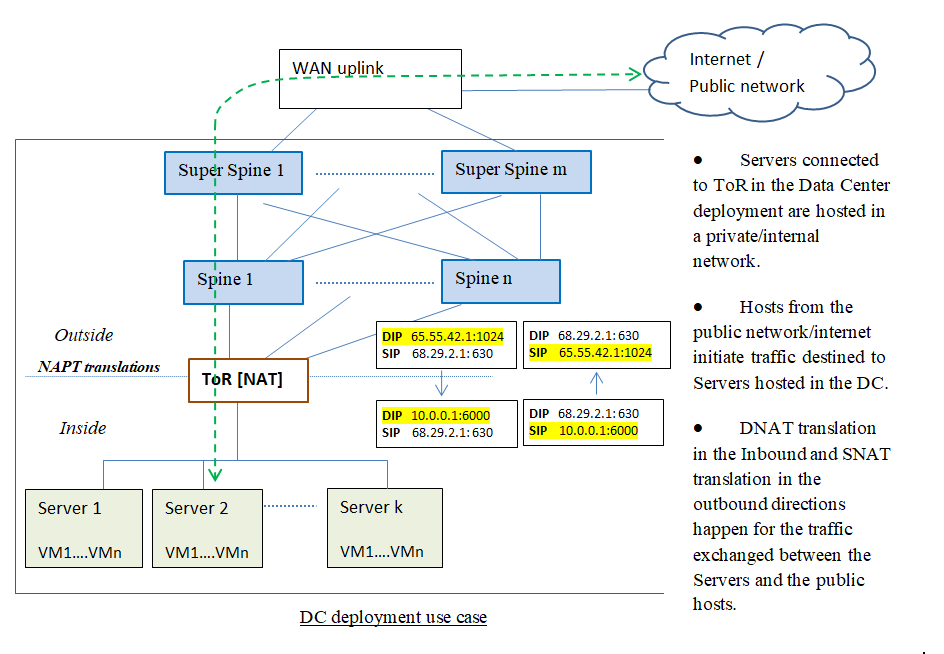
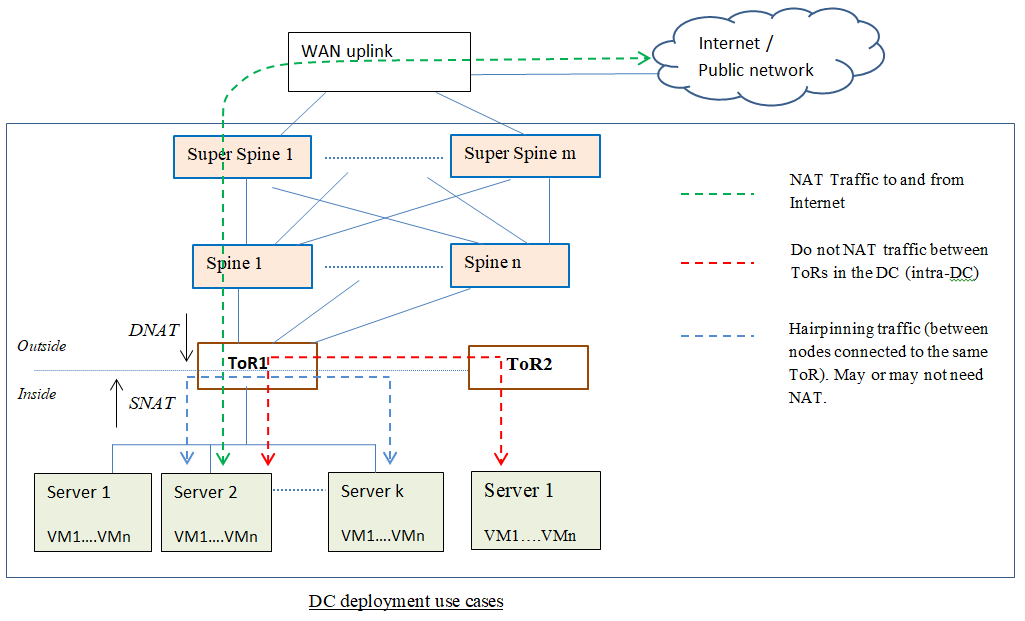
More text on DC deployment scenarios. Handling mismatch between the Linux and Hardware NAT models. Supporting Loopback IP as Public IP.

diff --git a/doc/nat/nat_design_spec.md b/doc/nat/nat_design_spec.md
@@ -176,7 +176,13 @@ Ability to support the scale of up to 40K Bi-directional NAT entries, but this i
 ## 2.1 Target Deployment Use Cases
 NAT feature is targeted for DC and Enterprise deployments.
 
-In DC deployments, the ToR switch can enable NAT feature to translate the traffic from/to the attached Servers running in the private network and the public domain.
+In DC deployments, we can have the following different use-cases:
+1. Traffic between the Server connected to the ToR and the Internet. ToR enabled for NAT does the DNAT for the south bound traffic from Internet to the Server and does the SNAT for the north bound traffic to the Internet.
+ 
+2. Intra-DC traffic between the nodes connected to different ToRs in the same DC. This is the case of internal communication with private IP addresses between the nodes in the DC that do not need to be NAT'ted at the ToRs, thereby saving the ASIC NAT table resources. In such scenarios, ACLs are used (see section 3.3 for more details) to avoid NAT actions on selected traffic flows.
+  
+3. Traffic between 2 Servers/hosts connected to the same ToR (also referred to as hairpinning traffic). Administrator may want to either do or not do the NAT on the hairpinning traffic. To avoid NAT in this case, ACLs can be used. Support for NAT on the hairpinning traffic is a future enhancement.
+
 ![DC deployment use case](images/nat_dc_deployment_usecase.png)
 
 In Enterprise deployments, the Customer Edge switch or other Customer premises equipment implements the NAT firewall functionality for translating the traffic between the internal enterprise hosts and the public domain.
@@ -211,7 +217,7 @@ Subsequently any new connections from the same internal IP + L4 port to new dest
 
 ### 2.2.4 NAT zones
 NAT zones refer to different network domains between which the NAT translation happens when the packet crosses between them. NAT zones are also referred to as NAT realms.
-NAT zones are created by configuring zone-id per L3 interface. The L3 interface referred to for NAT purposes can be an Ethernet, VLAN or PortChannel interface that are configured with IP address(es).
+NAT zones are created by configuring zone-id per L3 interface. The L3 interface referred to for NAT purposes can be an Ethernet, VLAN or PortChannel or Loopback interface that are configured with IP address(es).
 
 In this document, the interface that is towards the private networks (private realm) on the NAT router is referred to as an inside interface.
 And the interface that is towards the public network (public realm) on the NAT router is referred to as outside interface.
@@ -220,7 +226,7 @@ By default, L3 interface is in NAT zone 0 which we refer to as an inside interfa
 NAT/NAPT is performed when packets matching the configured NAT ACLs cross between different zones.
 The source zone of a packet is determined by the zone of the interface on which the packet came on. And the destination zone of the packet is determined by the zone of the L3 next-hop interface from the L3 route lookup of the destination.
 
-Currently only 2 zones are supported, which correspond to the inside interface and the outside interface.
+Currently only 2 zones are supported, which correspond to the inside interfaces and the outside interfaces.
 
 Any inbound traffic ingressing on the outside interface that is L3 forwarded on to the inside interface, is configured by user via Static NAT/NAPT entries to be DNAT translated.
 Any outbound traffic ingressing on the inside interface is configured to be dynamically SNAT translated.
@@ -228,6 +234,10 @@ Any outbound traffic ingressing on the inside interface is configured to be dyna
 The public IP address of the interface deemed to be outside interface, is referred to in the NAT pool configuration.
 
 The allowed range of configurable zone values is 0 to 3.
+
+In typical DC deployments, the Loopback interface IP address can be used as the public IP address in the static or dynamic NAT configurations. In such a case, Loopback interface as well should be assigned a zone value that is same as the zone assigned to the physical outside interfaces. Though the zone value is not configured for the Loopback interface in the hardware, it is required by the application layer for the NAT functionality.
+
+More details on the configuration of the Loopback IP as public IP is in the section 3.4 below.
 
 ### 2.2.5 Twice NAT and NAPT
 Twice NAT or Double NAT is a NAT variation where both the Source IP and the Destination IP addresses are modified as a packet crosses the address zones. It is typically used in  the communication between networks with overlapping private addresses.
@@ -329,13 +339,16 @@ This config tells to do:
 
 #### 3.2.1.6 Zone configuration
 ```
-VLAN|{{vlan-name}} 
+VLAN_INTERFACE|{{vlan-name}} 
     "nat_zone": {{zone-value}}
 
-PORT|{{ethernet-name}} 
+INTERFACE|{{ethernet-name}} 
     "nat_zone": {{zone-value}}
 
-PORTCHANNEL|{{portchannel-name}} 
+PORTCHANNEL_INTERFACE|{{portchannel-name}} 
+    "nat_zone": {{zone-value}}
+
+LOOPBACK_INTERFACE|{{loopback-name}} 
     "nat_zone": {{zone-value}}
 ```
 
@@ -413,15 +426,19 @@ TWICE_NAT_ID                 = 1*4DIGIT           ; a number between 1 and 9999
 ```
 ```
 ; Defines schema for NAT zone configuration
-key                          = VLAN:vlan-name
+key                          = VLAN_INTERFACE:vlan-name
 ; field                      = value
 NAT_ZONE                     = 1*1DIGIT          ; a number in the range 0-3
 
-key                          = PORT:port-name
+key                          = INTERFACE:port-name
 ; field                      = value
 NAT_ZONE                     = 1*1DIGIT          ; a number in the range 0-3
 
-key                          = PORTCHANNEL:portchannel-name
+key                          = PORTCHANNEL_INTERFACE:portchannel-name
+; field                      = value
+NAT_ZONE                     = 1*1DIGIT          ; a number in the range 0-3
+
+key                          = LOOPBACK_INTERFACE:loopback-name
 ; field                      = value
 NAT_ZONE                     = 1*1DIGIT          ; a number in the range 0-3
 ```
@@ -508,8 +525,8 @@ ENTRY_TYPE                            = "static" / "dynamic" 
 
 ```
 ; Defines schema for the NAT global table
-key                                   = NAT_GLOBAL_TABLE:Values        ; NAT global table
-; field                               = value
+key                            = NAT_GLOBAL_TABLE:Values        ; NAT global table
+; field                        = value
 ADMIN_MODE                     = "enable" / "disable" ; If the NAT feature is enabled or disabled globally
 NAT_TIMEOUT                    = 1*6DIGIT         ; Timeout in secs (Range: 300 sec - 432000 sec)
 NAT_TCP_TIMEOUT                = 1*3DIGIT         ; Timeout in secs (Range: 300 sec - 432000 sec)
@@ -528,7 +545,7 @@ COUNTERS_NAT_ZONE:<zone-id>
     SAI_NAT_SNAT_TRANSLATIONS
 
 ```
-The following new counters are available per entry:
+The following new counters are available per NAT/NAPT entry:
 ```
 The counters in the COUNTERS_DB are updated every 10 seconds. The key for the entry in the COUNTERS_DB is same as the key in the APP_DB.
 
@@ -558,7 +575,7 @@ COUNTERS_NAPT_TWICE:ip_protocol:src_ip:src_l4_port:dst_ip:dst_l4_port
 ```
 
 ## 3.3 Switch State Service Design
-Following changes are done in the orchagent. 
+Following changes are done in the orchagent.
 
 ### 3.3.1 NatMgr daemon
  NatMgrd gets the STATIC_NAPT, STATIC_NAT, NAT_POOL, NAT_GLOBAL, NAT_BINDINGS config changes from CONFIG_DB.
@@ -576,7 +593,7 @@ STATIC_NAPT|65.55.42.1|TCP|1024
 INTERFACE|Ethernet15|65.55.42.1/24
 ...
 
-PORT|Ethernet15
+INTERFACE|Ethernet15
     "nat_zone": 1
 
 ```
@@ -585,7 +602,7 @@ the following iptable rules are added for inbound and outbound directions in the
 iptables -t nat -A PREROUTING -i Ethernet15 -p tcp -j DNAT -d 65.55.42.1 --dport 1024 --to-destination 20.0.0.1:6000
 iptables -t nat -A POSTROUTING -o Ethernet15 -p tcp -j SNAT -s 20.0.0.1 --sport 6000 --to-source 65.55.42.1:1024
 ```
-They essentially tells the kernel to do the DNAT port translation for any incoming packets, and the SNAT port translation for the outgoing packets.
+They essentially tell the kernel to do the DNAT port translation for any incoming packets, and the SNAT port translation for the outgoing packets.
 
 If there are any ACL to NAT pool bindings configured, the NatMgrd listens to the notifications from the ACL tables and the ACL Rule configuration tables. On start-up, the NatMgrd queries the ACL Configuration for the ACLs bound to NAT pools. Once the ACL rules are retrieved, they are updated as iptables filtering options for the SNAT configuration.
 
@@ -621,7 +638,7 @@ NAT_BINDINGS|nat1
     "nat_pool": "pool1
     "nat_type": "snat"
 
-PORT|Ethernet15
+INTERFACE|Ethernet15
     "nat_zone": 1
   
 ```
@@ -675,7 +692,7 @@ Corresponding to the ACL, the equivalent deny and permit rules are added in the 
 
 When the ACL that is bound to the NAT pool is deleted, the corresponding iptables SNAT rules are deleted in the kernel.
 When the ACL rules are created or modified, the corresponding iptables SNAT rules are updated in the kernel.
-Multiple ACLs can be bound to a single NAT pool. 1 ACL can be bound atmost to a single NAT pool.
+Multiple ACLs can be bound to a single NAT pool. 1 ACL can be bound at most to a single NAT pool.
 
 If there is no matching ACL configured, it is treated as 'implicit permit all' and hence the corresponding NAT pool in the binding is applied on all the traffic.
 
@@ -704,17 +721,17 @@ This is done for the reasons below:
 ### 3.3.2 Natsync daemon
 
 NatSyncd listens to the conntrack netlink notification events from the kernel for the creation, update and removal events of the connections in the conntrack table.
-Once the notifications for SNAT and DNAT entries are received, they are pushed into the NAT_TABLE/NAPT_TABLE/NAPT_TWICE_TABLE in the APP_DB to be consumed by the NatOrch Agent. More details in the section 3.4.
+Once the SNAT/DNAT notifications are received, they are pushed into the NAT_TABLE/NAPT_TABLE/NAPT_TWICE_TABLE in the APP_DB to be consumed by the NatOrch Agent. More details in the section 3.4 below.
 
 ### 3.3.3 NatOrch Agent
 NAT feature is disabled by default.
-When the NAT feature is enabled, NatOrch enables the feature and the NAT miss trap actions in the hardware.
-The SNAT or DNAT miss packets are rate limited to CPU @ 600pps.
+When the NAT feature is enabled in the configuration, NatOrch enables the feature in the hardware.
+The SNAT or DNAT miss packets are by default rate limited to CPU @ 600pps. The NAT miss trap action and the rate limiting, queuing policies on the NAT miss packets are managed via the CoPP configuration.
 
 NatOrch is responsible for the following activities:
 
    - Listens on the notifications in the NAT, NAPT, NAPT_TWICE tables in the APP_DB, picks the notifications, translates them to SAI objects and pushes them to ASIC_DB to be consumed by Syncd. For every single NAT/NAPT entry, NatOrch pushes 1 SNAT entry and 1 DNAT entry (for inbound and outbound directions) to the ASIC_DB via sairedis.
-   - Monitors the translation activity status every sampling period for each of the NAT/NAPT entries in the hardware. Sampling period is chosen to be a optimal value of 60 seconds. If the NAPT entry is inactive for the duration of the NAT timeout period, the entry is removed. Static NAT/NAPT entries are not monitored for the inactivity. They have to be unconfigured explicitly to be removed from the hardware.
+   - Monitors the translation activity status every sampling period for each of the NAT/NAPT entries in the hardware. Sampling period is chosen to be a optimal value of 30 seconds. If the NAPT entry is inactive for the duration of the NAT timeout period, the entry is removed. Static NAT/NAPT entries are not monitored for the inactivity. They have to be unconfigured explicitly to be removed from the hardware.
 
 ### 3.3.3.1 Interaction with NeighOrch and RouteOrch
 NatOrch registers as observer with the NeighOrch and RouteOrch, so that the DNAT/DNAPT entries can be pushed to ASIC_DB by NatOrch, only if the corresponding translated IP is reachable via a neighbor entry or a route entry.
@@ -735,7 +752,7 @@ For the failed NAT entries, NatOrch removes the corresponding entries from the i
 When the administrator issues the clear command, NatOrch flushes the conntrack table, which in turn results in deleting the entries in the APP_DB by the Natsyncd daemon.
 
 ### 3.3.3.5 Max limit on the NAT entries
-NatOrch keeps track of the number of static + dynamic entries created and limits the NAT'ted conntrack entries in the kernel to the supported max limit in the hardware. This is done by removing any new conntrack connections that are being created beyond the maximum limit.
+NatOrch keeps track of the total number of static + dynamic entries created and limits the NAT'ted conntrack entries in the kernel to the supported max limit in the hardware. When a new translation notification is received beyond the maximum limit (due to new traffic that is being NAT'ted), the conntrack entry is removed in the kernel.
  
 ### 3.3.3.5 Block diagram
 The high level block diagram for NAT in SONiC is captured below.
@@ -755,25 +772,71 @@ Before the L3 forwarding is done in the Kernel, the iptables rules in PREROUTING
 
 After the L3 forwarding is done and before the packet is about to be sent out, the rules in the POSTROUTING chain are applied which do the SNAT (translate the SIP + L4 port to the public IP + L4 port). In this process, the SNAT state and SIP of the connection entry in the connection tracking table are updated.
 
-As long as the hardware entry is not installed, the NAT translation and forwarding is done in the Linux kernel.
+As long as the hardware entry is not installed, the NAT translation and forwarding is done in the Linux kernel using the iptables and conntrack entries.
+
+#### 3.4.1.1 No NAT Zones in the Kernel
+Similar to the zone per L3 interface that is programmed in the hardware, there is no concept of NAT zone on the interface in the Kernel. As a result, no zone checks can be done in the kernel when doing NAT. Matching is done against the outbound interface for the POSTROUTING/SNAT traffic and matching against the inbound interface for the PREROUTING/DNAT traffic. The outgoing interface parameter should be passed to the iptables rules to ensure that the NAT is done for the software routed traffic in the kernel only when the packet is sent on the interface corresponding to the outside zone. Without the interface parameter, any software routed packet can get NAT'ted.
+
+For the static NAT/NAPT configurations, the iptables rules do the SNAT by matching against the outgoing interface and do the DNAT by matching against the incoming interface.
+For the dynamic SNAT/SNAPT configuration, the iptables rules do the SNAT by matching against the outgoing interface.
+
+#### 3.4.1.2 Loopback IP as Public IP
+In typical DC deployments, the Loopback interface IP addresses can be used as public IP in the static NAT/NAPT and dynamic Pool binding configurations. Reason being that the Loopback IP is always UP and reachable through one of the uplink physical interfaces and does not go down unlike the physical interfaces. If used as the public IP, the Loopback interface should be configured with a zone value that is same as the zone value configured on the outside physical interfaces. Loopback interface zone configuration is not propagated to the hardware, but NatMgr uses the zone value of the Loopback interface to configure the iptables rules to match with the outgoing physical interfaces having the same zone value.
+
+For example, if user configures the Loopback0 interface with the public IP to be source translated to, with 2 uplink outside interfaces Ethernet28, Vlan100 as below: 
+
+```
+LOOPBACK_INTERFACE|Loopback0|65.55.42.1/24
+
+LOOPBACK_INTERFACE|Loopback
+    "nat_zone": 1
+
+INTERFACE|Ethernet28
+    "nat_zone": 1
+
+VLAN_INTERFACE|Vlan100
+    "nat_zone": 1
+
+NAT_POOL|pool1
+    "nat_ip": 65.55.42.1 
+    "nat_port": 1024-65535 
+
+NAT_BINDINGS|nat1    
+    "nat_pool": "pool1
+    "nat_type": "snat"
+```
+
+The following iptables rules are added in the kernel for each protocol type traffic for SNAT purpose:
+```
+iptables -t nat -A POSTROUTING -p tcp -j SNAT -o Ethernet28 --to-source 65.55.42.1:1024-65535 --random-fully
+iptables -t nat -A POSTROUTING -p tcp -j SNAT -o Vlan100 --to-source 65.55.42.1:1024-65535 --random-fully
+```
 
 ### 3.4.2 Connection tracking
 Connection tracking module in the kernel creates the connection entries and maintains their states as and when the packet traverses the forwarding path in the kernel. It keeps track of all the connections created in the system. IPtables module consults the connections tuples tracked in the system during NAT process and updates the connections.
 
 Connections when added, deleted or updated in the connection tracking system are notified via netlink interface to interested listeners (natsyncd in our case).
 
-Connections are tracked as 5-tuple entries (based on Protocol, SIP, SPORT, DIP, DPORT) in the kernel, but the NAT entries in the hardware are to be tracked as 3-tuple entries (based on Protocol, SIP, SPORT (or) Protocol, DIP, DPORT).
-By default the kernel SNATs to the same translated SIP+SPORT, traffic flows from different sources to different destinations.
-For eg.,
-The traffic
-[SIP=1.0.0.1, SPORT=100 => DIP=2.0.0.2, DPORT=200] is SNAT'ted as [SIP=65.55.45.1, SPORT=600 => DIP=2.0.0.2, DPORT=200] as well as the traffic
-[SIP=1.0.0.2, SPORT=120 => DIP=2.0.0.3, DPORT=300] is SNAT'ted as [SIP=65.55.45.1, SPORT=600 => DIP=2.0.0.3, DPORT=300]
-as the translated 5-tuples are unique in each case.
-Due to the reuse of the mapped SIP+SPORT, the 65.55.45.1:600 cannot be mapped back to the original source uniquely when the traffic comes back in the reverse direction.
+#### 3.4.2.1 Handling NAT model mismatch between the ASIC and the Kernel
+The kernel's conntrack subsystem is the source for creating the NAT translation mappings from a dynamic Pool binding configuration.
 
-To achieve the 1-1 mapping from the 5-tuple conntrack entries in the kernel to the 3-tuple NAT entries in the hardware, the iptables are programmed in the kernel to do translated port mapping in a random manner from the given port range.
+The NAT model in the ASIC does SNAT/DNAT translations by doing 3-tuple match (matching against Protocol, SIP, SPORT (or) Protocol, DIP, DPORT) in the packet. Unlike in the ASIC, the traditional Linux iptables/conntrack model for NAT does the translations by 5-tuple match (matching against Protocol, SIP, SPORT, DIP, DPORT) in the kernel.
 
-Even with the random port allocation, if a different source is mapped to reuse an existing translated SIP+SPORT, the corresponding conntrack entry is deleted in the kernel.   
+By default the kernel SNATs to the same translated SIP+SPORT from the given pool range, for the traffic flows from different sources to different destinations. As a result the conntrack NAT 5-tuple cannot be mapped directly to the ASIC NAT 3-tuple.
+
+For example., the traffic flow
+[SIP=1.0.0.1, SPORT=100 ==> DIP=2.0.0.2, DPORT=200] is SNAT'ted as [SIP=65.55.45.1, SPORT=600 ==> DIP=2.0.0.2, DPORT=200] as well as the traffic flow
+[SIP=1.0.0.2, SPORT=120 ==> DIP=2.0.0.3, DPORT=300] is SNAT'ted as [SIP=65.55.45.1, SPORT=600 ==> DIP=2.0.0.3, DPORT=300]
+since the translated 5-tuples are unique in each case.
+
+For the first traffic flow above, the 3-tuple entry is added in the hardware to
+[SIP=1.0.0.1, SPORT=100] SNAT to [SIP=65.55.45.1, SPORT=600]
+
+The second traffic flow [SIP=1.0.0.2, SPORT=120] cannot be added in the hardware to translate to the same IP/PORT [SIP=65.55.45.1, SPORT=600], since the reverse traffic flows cannot be uniquely translated to the original Source endpoints.
+
+This mismatch in the NAT models between the ASIC and the Kernel is addressed by the following design approach in SONiC.
+- To minimize the overlap/re-use of the translated SIP/SPORT in the 5-tuple conntrack entries, the iptables are programmed in the kernel to do translated port mapping in a random manner from the given port range.
+- Even with the random allocation, if a different Source endpoint is mapped to reuse an existing translated SIP+SPORT, the corresponding conntrack entry is deleted in the kernel. This results in retries by the Source endpoint till the translated SIP+SPORT is not overlapping with the existing entry.
 
 ### 3.4.3 Interactions between Kernel and Natsyncd
 Following sections explain how the NAT entries corresponding to the connections originated from the private networks are created in the hardware.
@@ -781,14 +844,12 @@ Following sections explain how the NAT entries corresponding to the connections 
 #### 3.4.4.1 NAT entries for TCP traffic
 For the TCP traffic initiated by the hosts in the private zone, when the TCP SYN packet reaches the NAT router, if there is no matching NAT entry, the NAT miss is reported and the packet is trapped to CPU. The connection entry is created in the conntrack table with NEW conntrack state. The packet is L3 forwarded if a matching route and the nexthop are found. Once the packet is forwarded and ready to be sent out on the NAT outside interface, the packet's SIP and L4 port are translated and the connection entry is updated. As well the connection's state is updated with SNAT and/or DNAT status flag.
 
-Since the dynamic NAPT entry creation logic is driven by the kernel's iptables rules, we allow at least the first 2 TCP packets (SYN, SYN+ACK) to be NAT translated and software forwarded in the Linux kernel. Once the SYN+ACK packet is also received in the reverse direction, the conntrack status of the connection is set to ASSURED flag (meaning the connection entry will not be aged out).
+Since the dynamic NAPT entry creation logic is driven by the kernel's iptables rules, we allow the 3-way handshake  TCP SYN/ACK packets to be NAT translated and software forwarded in the Linux kernel. After the 3-way handshake, the conntrack status of the connection is set to ASSURED.
 
 Only the TCP connection entries that are marked as ASSURED in the conntrack table are considered by Natsyncd to be added in the APP_DB.This is done for the below reasons:
 1. Since we do not want to use the NAT table space in the hardware to be filled up with any uni-directional SYN flood traffic.
-2. So that the kernel does not timeout the unidirectional SYN-SENT connection state entries early (if only SYN packet is software forwarded in the kernel and the SYN+ACK packet is hardware forwarded).
+2. So that the kernel does not timeout the unidirectional SYN-SENT connection state entries early (if only SYN packet is software forwarded in the kernel and the SYN+ACK/ACK packets are hardware forwarded).
 3. To have the conntrack TCP entries and the hardware entries in sync.
-
-NatSyncd checks that the TCP connection's parameters reported by the conntrack netlink event have the ASSURED status set, before pushing the entry to the APP_DB.
 
 The conntrack entry notified by the kernel has the SIP and DIP fields in both directions of the flow. If only SIP or DIP is modified in any direction, it is a case of Single NAT/NAPT. If both the SIP and DIP are modified in any direction, it is a case of Twice NAT/NAPT.
 
@@ -798,14 +859,14 @@ The TCP FIN flagged packets are not trapped to CPU. Hence the NAT entries for th
 
 #### 3.4.4.2 NAT entries for UDP traffic
 Unlike TCP traffic, UDP traffic has no connection establishment phase.
-The first UDP packet in a session originated in the private zone raises a NAT miss on reaching the NAT router. The UDP connection entry is created in the tracking table and SNAT translation is applied on the connection.
+The first UDP packet in a session originated in the private zone raises a NAT miss on reaching the NAT router. The UDP connection entry is created in the tracking table and the SNAT translation is applied on the connection.
 NatSyncd considers the UDP connections that have the conntrack entry state as SNAT and adds them to the APP_DB.
 The timing out of the UDP connections in the conntrack table is the responsibility of the NatOrch.
 
 #### 3.4.4.3 NAT entries for ICMP traffic
-ICMP query messages and responses (like echo requests/responses) resulting in the NAT miss are also subjected to dynamic SNAT with a mapping to the overloaded ICMP identifier on the public IP from the local ICMP identifier and private IP.
+ICMP query messages and responses (like echo requests/responses) resulting in the NAT miss are also subjected to dynamic SNAT with a translation from the local ICMP identifier and private IP to the overloaded ICMP identifier on the public IP .
 
-ICMP traffic that needs to be NAT translated (crossing across different zones) is software forwarded in the Linux kernel. ICMP NAT/NAPT entries hence are not added to hardware.
+NAT translation of the ICMP traffic is always done in the Linux kernel. ICMP traffic crossing the zones is trapped to the CPU. ICMP NAT/NAPT entries hence are not added to hardware.
 
 Using tools like Ping and Traceroute from internal hosts destined to external public IP addresses should work with NAT translations.
 
@@ -1120,16 +1181,26 @@ N/A
 | show nat config static| Use this command to display the Static NAT/NAPT configuration   |
 | show nat config pool  | Use this command to display the NAT pools configuration    |
 | show nat config bindings | Use this command to display the NAT bindings configuration |
-| show nat config global-values       | Use this command to display the global NAT configuration |
+| show nat config globalvalues       | Use this command to display the global NAT configuration |
 
 Example:
 ```
 Router#show nat translations
 
+Static NAT Entries        ................. 4
+Static NAPT Entries       ................. 2
+Dynamic NAT Entries       ................. 0
+Dynamic NAPT Entries      ................. 4
+Static Twice NAT Entries  ................. 0
+Static Twice NAPT Entries ................. 2
+Total Entries             ................. 12
+
 Protocol Source           Destination       Translated Source  Translated Destination
 -------- ---------        --------------    -----------------  ----------------------
 all      10.0.0.1         ---               65.55.42.2         ---
+all      ---              65.55.42.2        ---                10.0.0.1
 all      10.0.0.2         ---               65.55.42.3         ---
+all      ---              65.55.42.3        ---                10.0.0.2
 tcp      20.0.0.1:4500    ---               65.55.42.1:2000    ---
 tcp      ---              65.55.42.1:2000   ---                20.0.0.1:4500
 udp      20.0.0.1:4000    ---               65.55.42.1:1030    ---
@@ -1180,7 +1251,7 @@ Bind2          Pool2          1              snat      1
 Bind3          Pool3          2              snat      --
 
 
-Router#show nat config global-values
+Router#show nat config globalvalues
 
    Admin Mode     : enabled
    Global Timeout : 600 secs
@@ -1414,9 +1485,9 @@ The Unit test case one-liners are as below:
 | 35 | Start NAT docker and verify that the static NAT entries from CONFIG_DB are added in the kernel APP_DB ASIC_DB and any new dynamic entries are added to hardware.                                                                                                                        |
 | 36 | Verify that the traffic flows that are NAT translated are not affected during warm restart. Zero packet loss and succesful reconcilation.                                                                                             |
 | 37 | Verify that the dynamic NAT translations are restored to APP_DB and the kernel after warm reboot.                                                                                                                                     |
-| 38 | Send upto 1024 outbound traffic flows that trigger creation of 1024 dynamic NAT entries.                                                                                                                                              |
-| 39 | Send more than 1024 outbound traffic flows and check that the NAT entry creations beyond 1024 entries are failing as reported by SYNCD (with max resource usage reason). TD3 will scale to 16K.                                       |
-| 40 | Verify that timed-out entries are creating space for new NAT entries and again limited to 1024 maximum entries. TD3 will scale to 8K.                                                                                                 |
+| 38 | Send up to 1024 outbound traffic flows that trigger creation of 1024 dynamic NAT entries.                                                                                                                                              |
+| 39 | Send more than 1024 outbound traffic flows and check that the NAT entry creations beyond 1024 entries are not created.                                       |
+| 40 | Verify that timed-out entries are creating space for new NAT entries and again limited to 1024 maximum entries.                                                                                                 |
 | 41 | Verify scaling beyond table limits and ensure the 'Table full' condition is reported.                                                                                                                                     |
 | 42 | Any dynamic memory allocation failures are handled gracefully.                                  |
 | 43 | NatMgrd handles errors while programming iptables rules in the kernel by logging the error log messages.                                                                                                                              |
